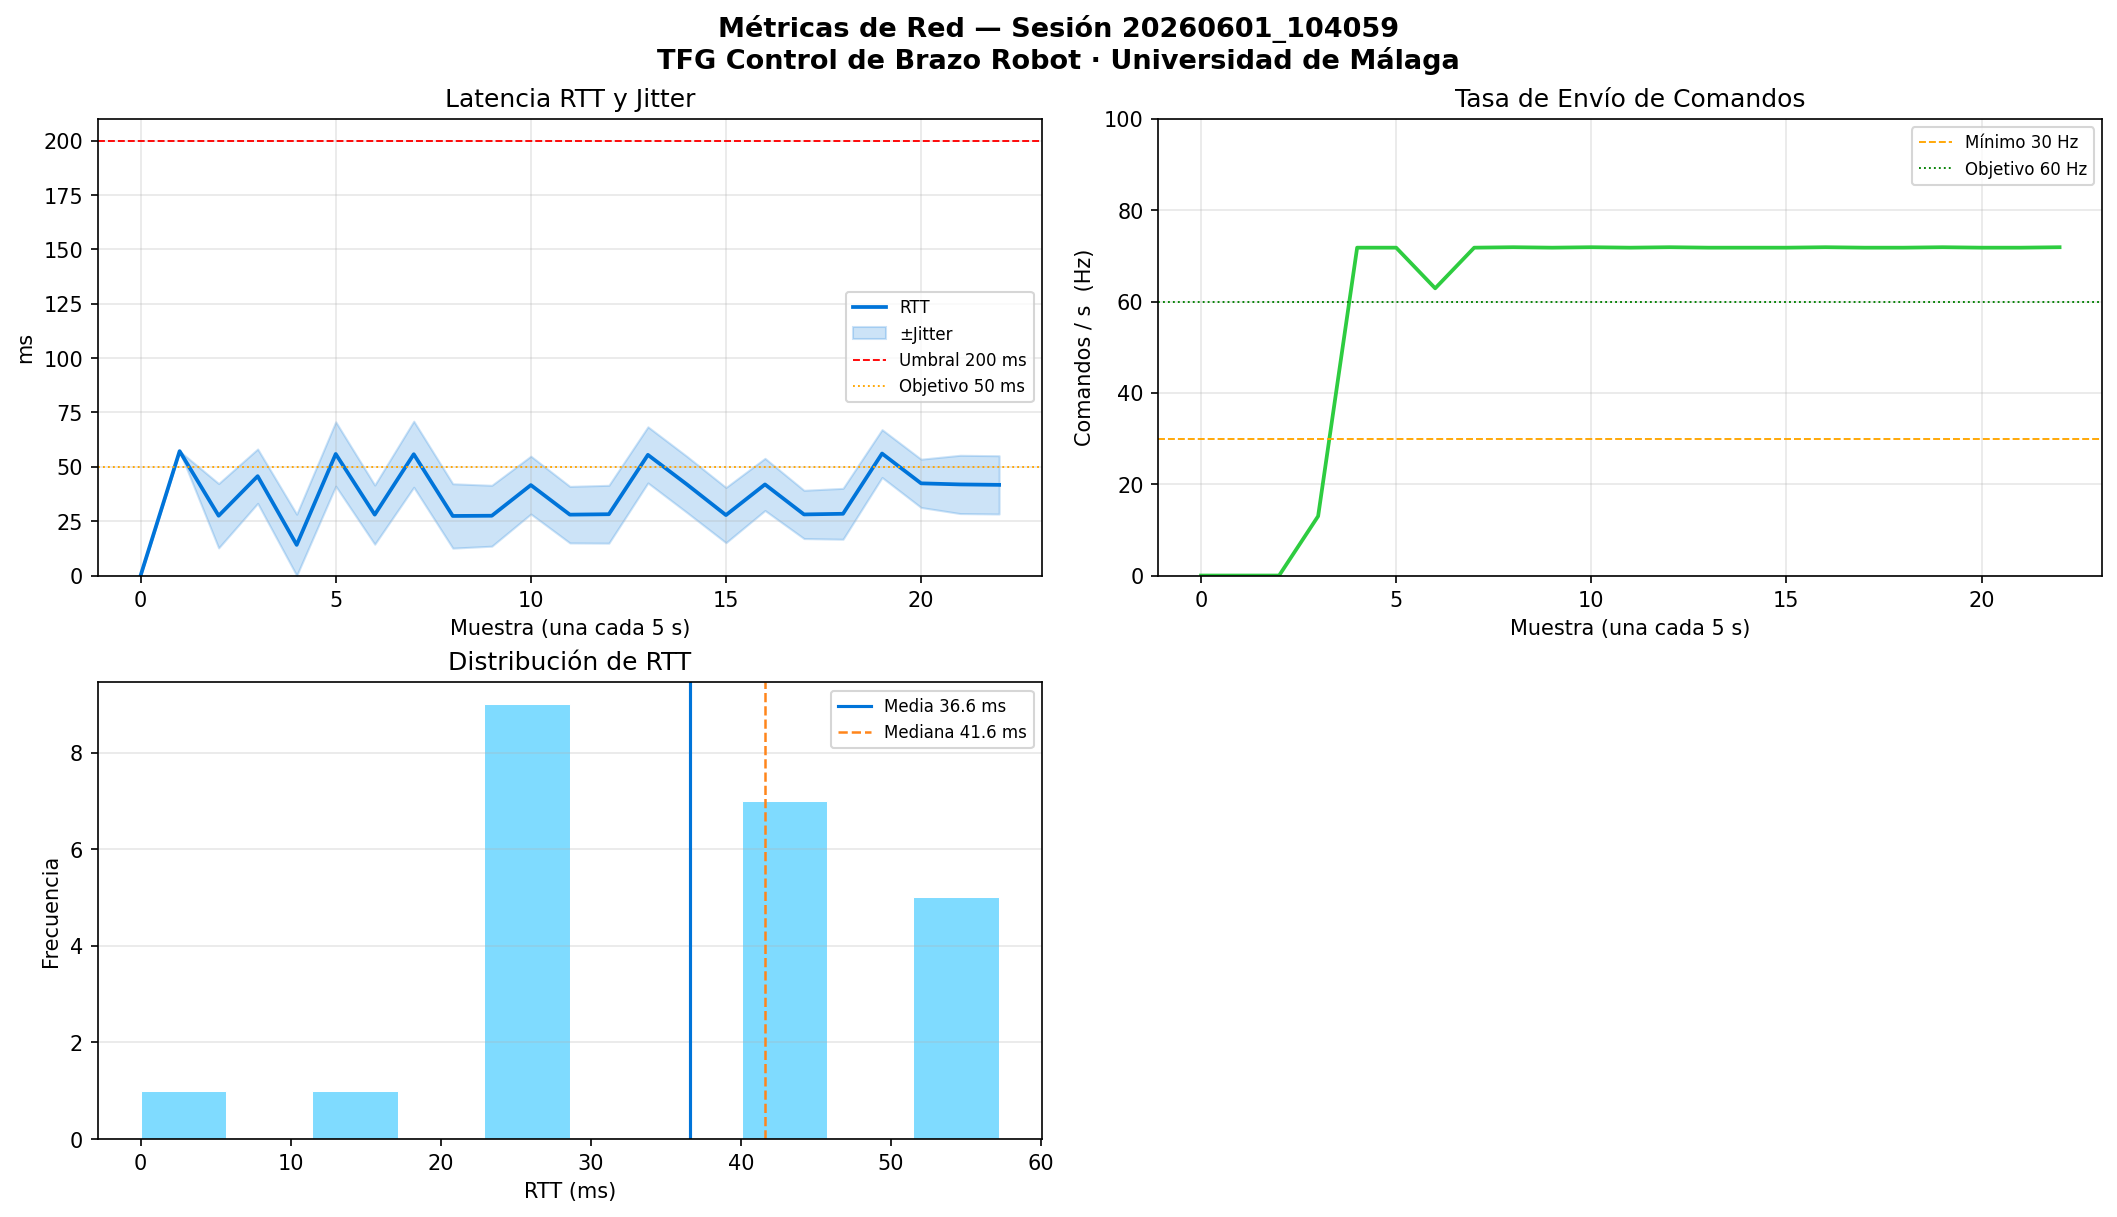
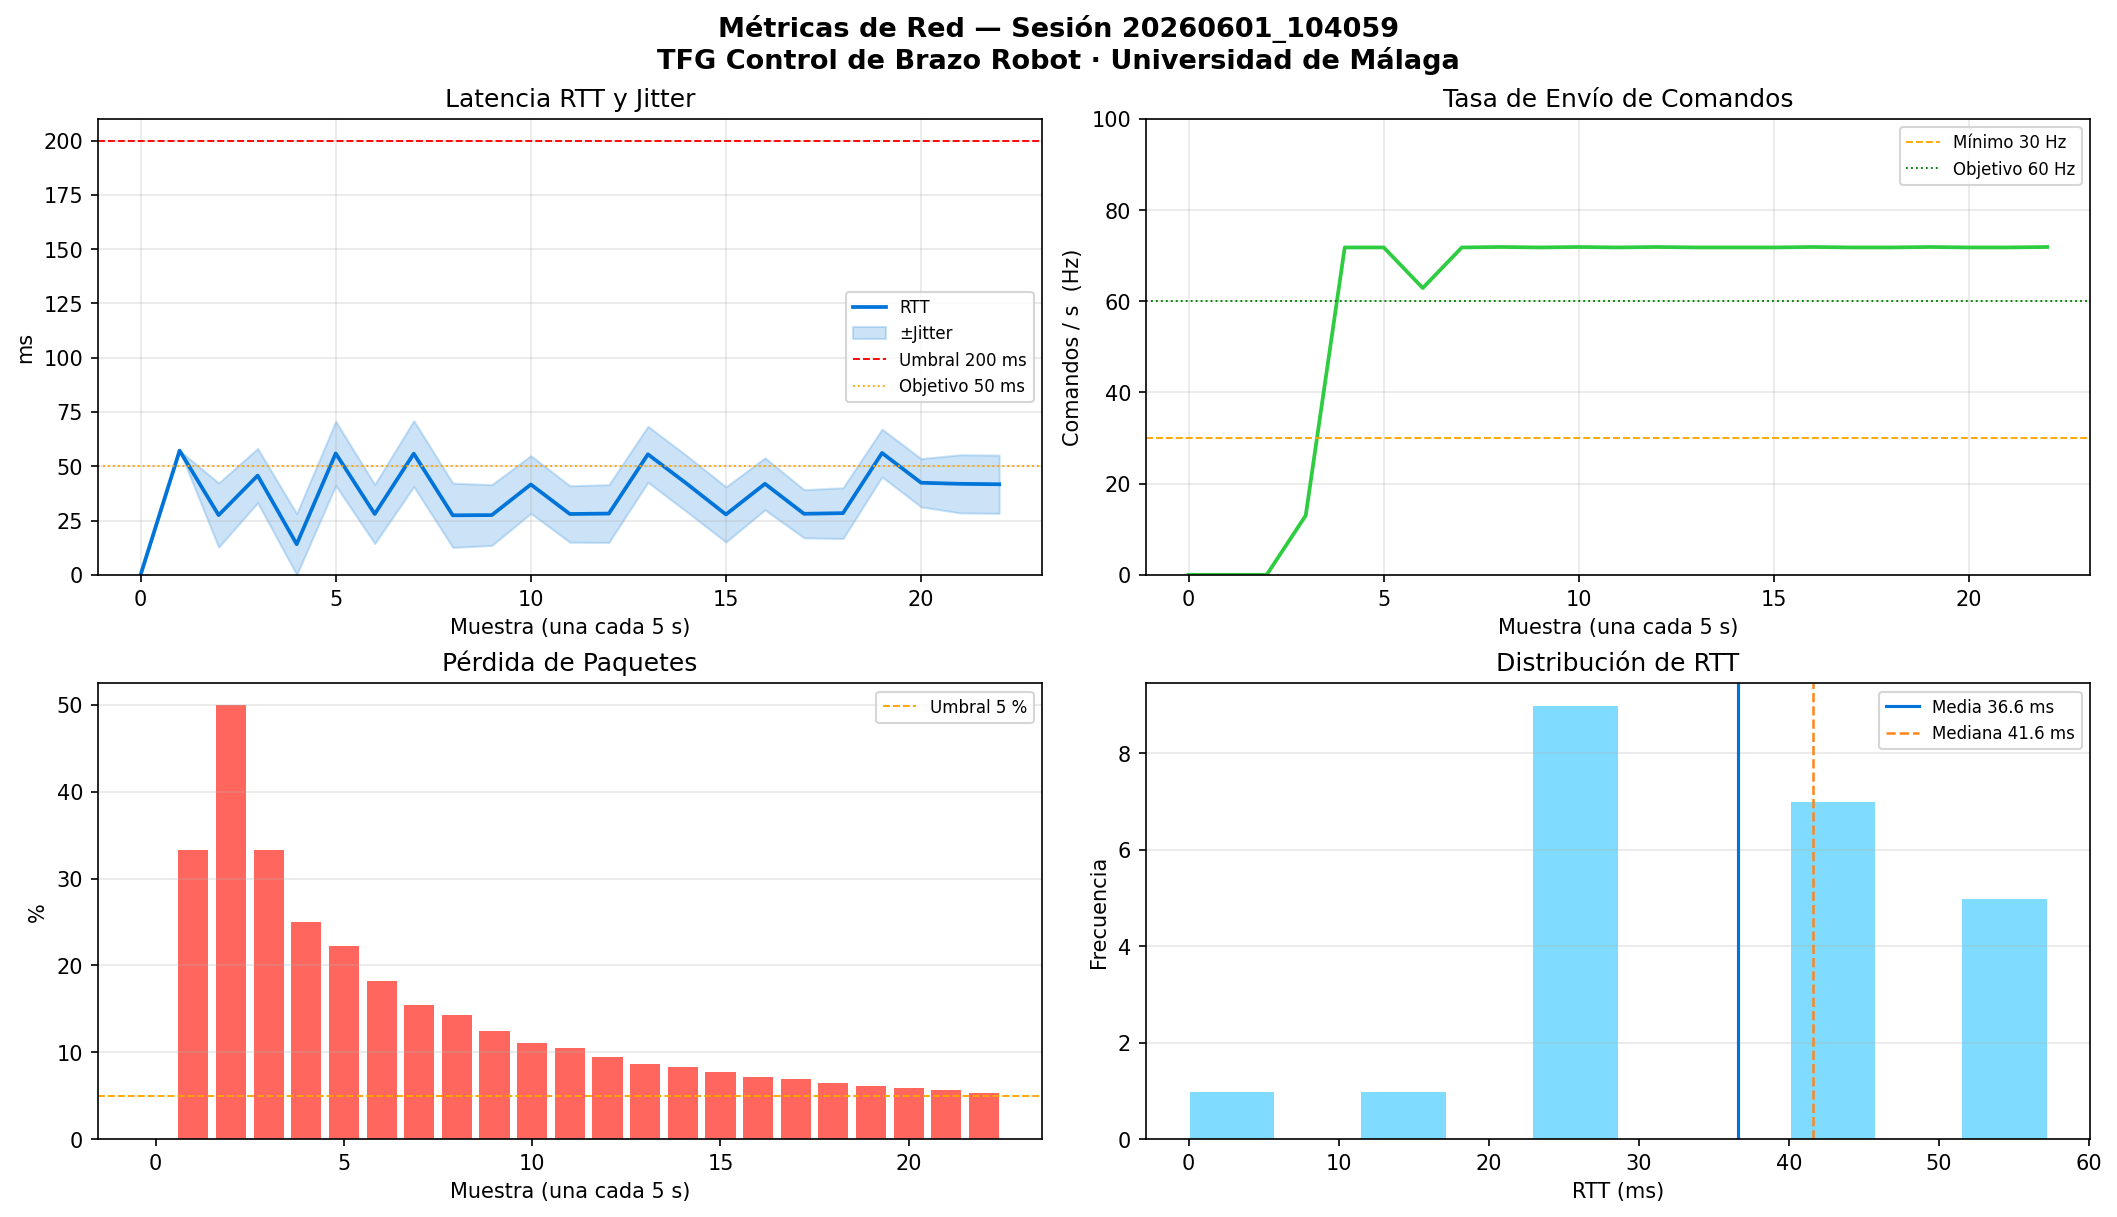
Pruebas de Red que se realizaron en la Mayora

diff --git a/PC-ROBOT/signaling_server.py b/PC-ROBOT/signaling_server.py
@@ -14,7 +14,7 @@ log = logging.getLogger(__name__)
 #---------------------------------------
 #CONFIGURACION
 #---------------------------------------
-HOST = "192.168.1.124"
+HOST = "10.178.100.137"
 #Ponerlo todo a 0.0.0.0 significa que acepta conexiones desde cualquier IP de la red
 #Si solo queremos aceptar  conexiones locales(mismo PC), usamos "127.0.0.1"
 
